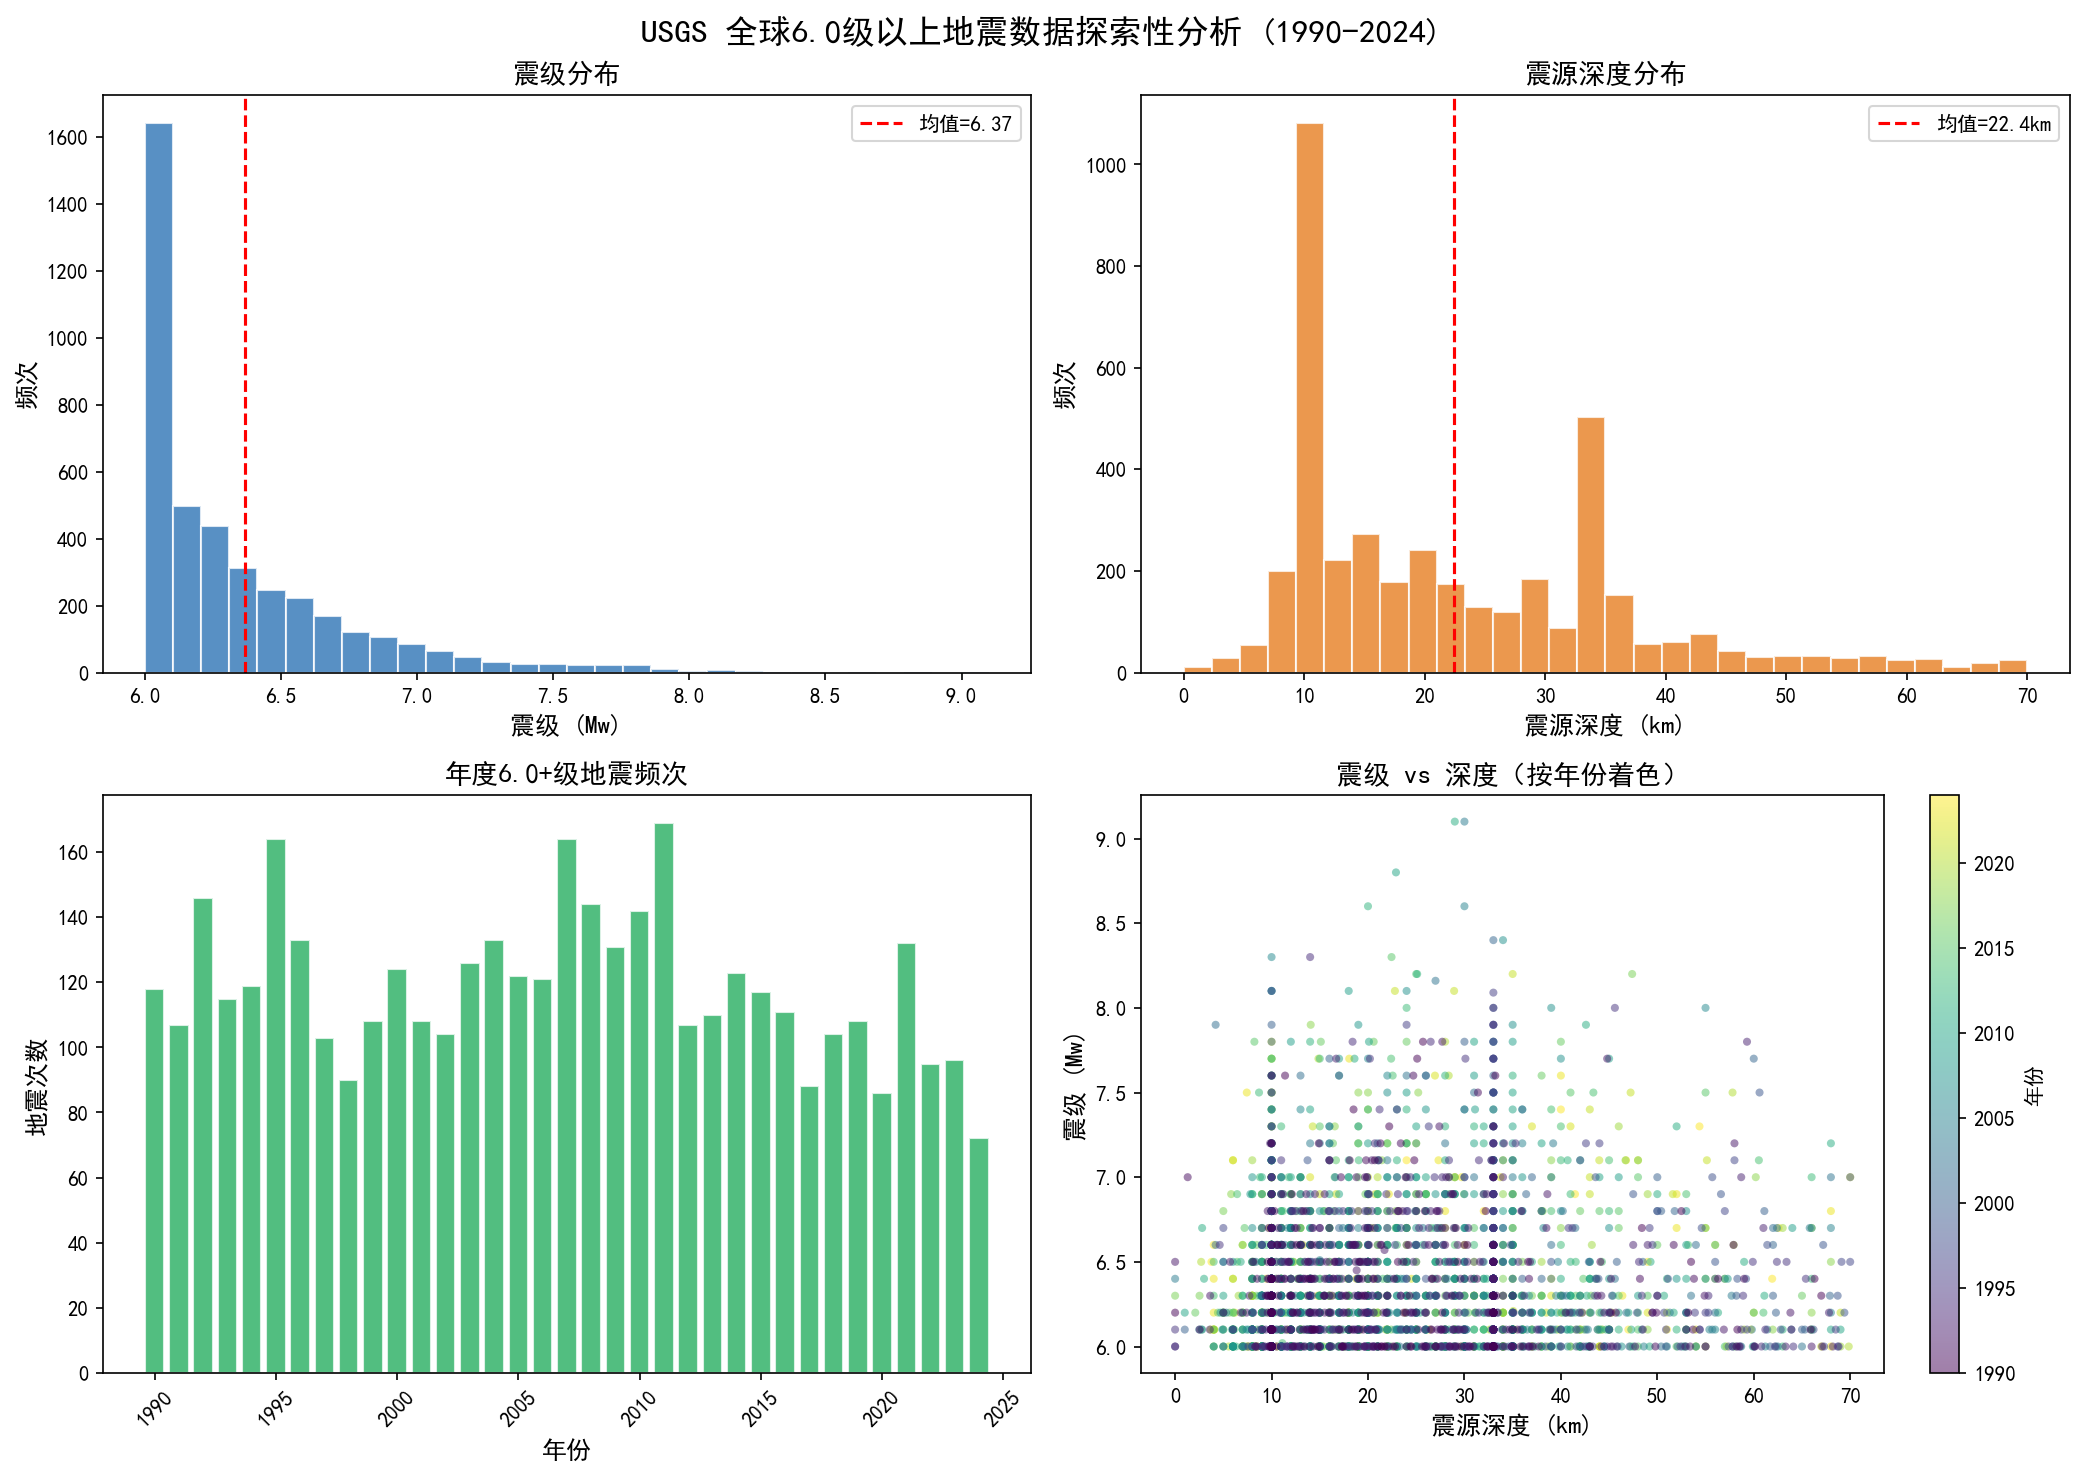
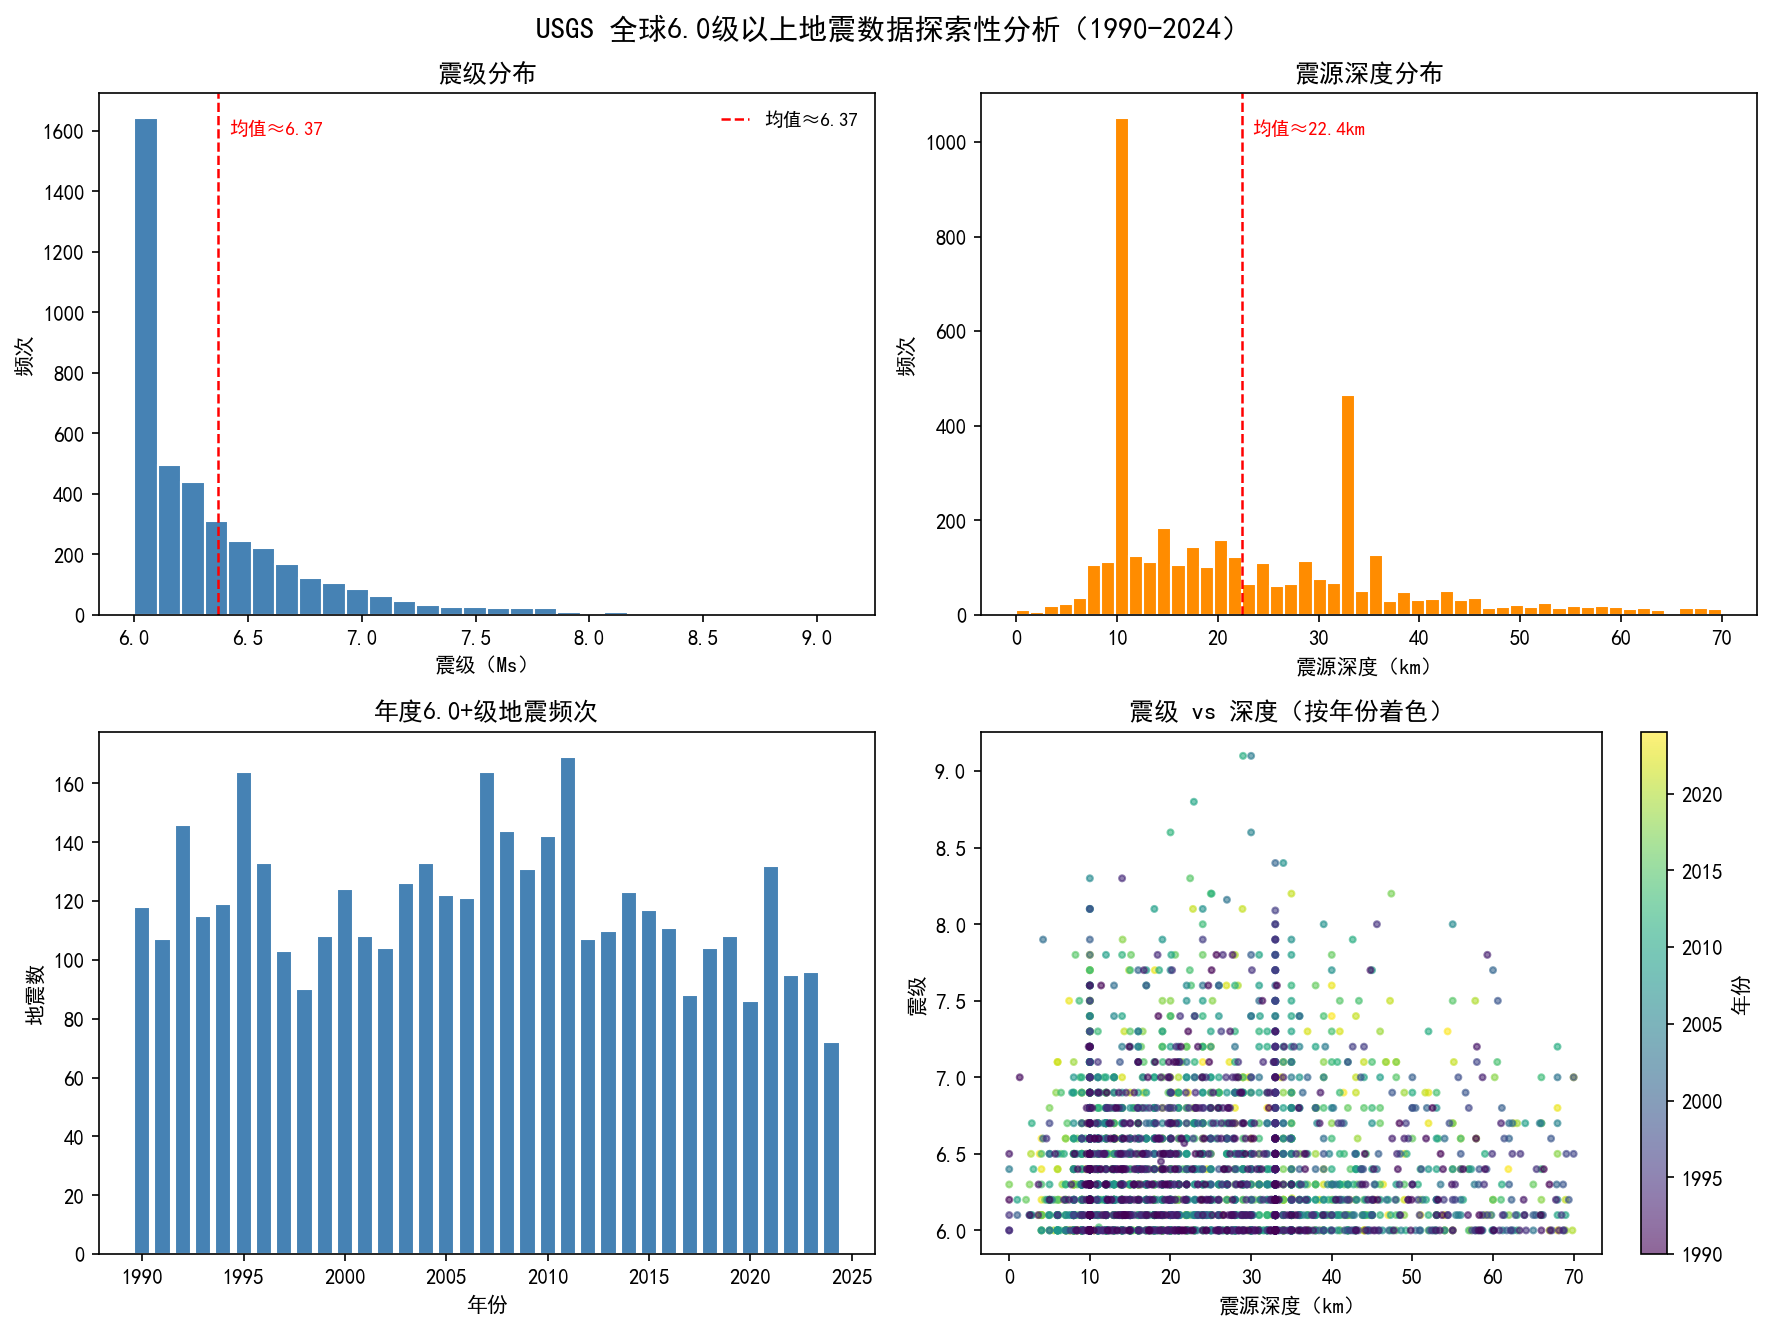
补充第一步数据探索脚本，修正数据统计

diff --git a/code/01_data_exploration.py b/code/01_data_exploration.py
@@ -1,0 +1,227 @@
+"""
+01_data_exploration.py
+余震预测项目 — 第一步：数据探索与清洗
+  1) 清洗 USGS 全球 M6.0+ 地震数据  -> usgs_clean.csv
+  2) 汇总 20 条测试地震序列统计信息   -> test_eq_stats.csv
+  3) 生成 3 张 EDA 图表
+"""
+
+import os
+import numpy as np
+import pandas as pd
+import matplotlib
+import matplotlib.pyplot as plt
+
+matplotlib.rcParams["font.sans-serif"] = ["SimHei", "Microsoft YaHei"]
+matplotlib.rcParams["axes.unicode_minus"] = False
+
+# ── 路径配置 ──────────────────────────────────────────────
+DATA_DIR = r"E:\data_download"
+SEQ_DIR = os.path.join(DATA_DIR, "test_eq_data")
+OUTPUT_DIR = r"E:\earthquake_project\output"
+os.makedirs(OUTPUT_DIR, exist_ok=True)
+
+USGS_RAW_PATH = os.path.join(DATA_DIR, "usgs_query.csv")
+CATALOG_PATH = os.path.join(DATA_DIR, "test_eq_catalog.csv")
+
+
+# ═══════════════════════════════════════════════════════════
+#  第 1 部分：USGS 全球地震数据清洗
+# ═══════════════════════════════════════════════════════════
+def clean_usgs():
+    print("[1/3] 清洗 USGS 全球地震数据 ...")
+    raw = pd.read_csv(USGS_RAW_PATH)
+    print(f"  原始数据: {raw.shape}")
+
+    df = raw.copy()
+
+    # 解析时间, 提取年月
+    df["time"] = pd.to_datetime(df["time"])
+    df["year"] = df["time"].dt.year
+    df["month"] = df["time"].dt.month
+
+    # 选取建模所需列, 按时间降序排列
+    cols = ["time", "latitude", "longitude", "depth",
+            "mag", "magType", "place", "year", "month"]
+    df = df[cols].sort_values("time", ascending=False).reset_index(drop=True)
+
+    out_path = os.path.join(OUTPUT_DIR, "usgs_clean.csv")
+    df.to_csv(out_path, index=False)
+    print(f"  清洗后: {df.shape} -> {out_path}")
+    return df
+
+
+# ═══════════════════════════════════════════════════════════
+#  第 2 部分：测试地震序列统计
+# ═══════════════════════════════════════════════════════════
+def build_test_eq_stats():
+    print("[2/3] 汇总测试地震序列统计 ...")
+    cat = pd.read_csv(CATALOG_PATH)
+
+    rows = []
+    for _, r in cat.iterrows():
+        eq_id = (f"{int(r['Year']):04d}{int(r['Month']):02d}{int(r['Day']):02d}"
+                 f"{int(r['Hour']):02d}{int(r['Minute']):02d}{int(r['Second']):02d}")
+        seq_path = os.path.join(SEQ_DIR, f"{eq_id}_eq.csv")
+        seq = pd.read_csv(seq_path, encoding="utf-8-sig")
+        rows.append({
+            "eq_id": eq_id,
+            "mainshock_mag": r["Mag"],
+            "latitude": r["Lat"],
+            "longitude": r["Lon"],
+            "depth": r["Depth"],
+            "source": r["Source"],
+            "aftershock_count": len(seq),   # 序列中全部记录数
+            "year": int(r["Year"]),
+        })
+
+    stats = pd.DataFrame(rows)
+    out_path = os.path.join(OUTPUT_DIR, "test_eq_stats.csv")
+    stats.to_csv(out_path, index=False)
+    print(f"  {len(stats)} 条地震 -> {out_path}")
+    return stats
+
+
+# ═══════════════════════════════════════════════════════════
+#  第 3 部分：EDA 可视化
+# ═══════════════════════════════════════════════════════════
+
+# ---- 图 1: USGS 数据 4 面板 EDA ----
+def plot_usgs_eda(df):
+    print("[3/3] 绘制 EDA 图表 ...")
+    fig, axes = plt.subplots(2, 2, figsize=(12, 9))
+    fig.suptitle("USGS 全球6.0级以上地震数据探索性分析（1990-2024）",
+                 fontsize=14, fontweight="bold")
+
+    # (1) 震级分布
+    ax = axes[0, 0]
+    ax.hist(df["mag"], bins=30, color="steelblue", edgecolor="white")
+    mean_mag = df["mag"].mean()
+    ax.axvline(mean_mag, color="red", ls="--", lw=1.2)
+    ax.set_title("震级分布")
+    ax.set_xlabel("震级（Ms）")
+    ax.set_ylabel("频次")
+    ax.legend([f"均值≈{mean_mag:.2f}"], loc="upper right",
+              frameon=False, fontsize=9, handlelength=1.5,
+              handler_map={str: matplotlib.legend_handler.HandlerBase()})
+    # 用 text 添加标注更灵活
+    ax.text(mean_mag + 0.05, ax.get_ylim()[1] * 0.92,
+            f"均值≈{mean_mag:.2f}", color="red", fontsize=9)
+
+    # (2) 震源深度分布
+    ax = axes[0, 1]
+    ax.hist(df["depth"], bins=50, color="darkorange", edgecolor="white")
+    mean_dep = df["depth"].mean()
+    ax.axvline(mean_dep, color="red", ls="--", lw=1.2)
+    ax.set_title("震源深度分布")
+    ax.set_xlabel("震源深度（km）")
+    ax.set_ylabel("频次")
+    ax.text(mean_dep + 1, ax.get_ylim()[1] * 0.92,
+            f"均值≈{mean_dep:.1f}km", color="red", fontsize=9)
+
+    # (3) 年度频次
+    ax = axes[1, 0]
+    yearly = df.groupby("year").size()
+    ax.bar(yearly.index, yearly.values, color="steelblue", edgecolor="white")
+    ax.set_title("年度6.0+级地震频次")
+    ax.set_xlabel("年份")
+    ax.set_ylabel("地震数")
+
+    # (4) 震级 vs 深度（按年份着色）
+    ax = axes[1, 1]
+    sc = ax.scatter(df["depth"], df["mag"], c=df["year"],
+                    cmap="viridis", s=8, alpha=0.6)
+    fig.colorbar(sc, ax=ax, label="年份")
+    ax.set_title("震级 vs 深度（按年份着色）")
+    ax.set_xlabel("震源深度（km）")
+    ax.set_ylabel("震级")
+
+    plt.tight_layout()
+    out = os.path.join(OUTPUT_DIR, "01_usgs_eda.png")
+    fig.savefig(out, dpi=150, bbox_inches="tight")
+    plt.close(fig)
+    print(f"  -> {out}")
+
+
+# ---- 图 2: 全球地震分布 ----
+def plot_global_distribution(df):
+    fig, ax = plt.subplots(figsize=(14, 7))
+    sc = ax.scatter(df["longitude"], df["latitude"],
+                    c=df["mag"], cmap="YlOrRd",
+                    s=(df["mag"] - 5) ** 2.5 * 3,
+                    alpha=0.5, edgecolors="none")
+    fig.colorbar(sc, ax=ax, label="震级（Mw）", shrink=0.6)
+    ax.set_title("全球6.0+级地震分布（1990-2024）（颜色和大小表示震级）",
+                 fontsize=13)
+    ax.set_xlabel("经度")
+    ax.set_ylabel("纬度")
+    ax.set_xlim(-180, 180)
+    ax.set_ylim(-90, 90)
+    plt.tight_layout()
+    out = os.path.join(OUTPUT_DIR, "02_global_distribution.png")
+    fig.savefig(out, dpi=150, bbox_inches="tight")
+    plt.close(fig)
+    print(f"  -> {out}")
+
+
+# ---- 图 3: 测试地震序列分析 ----
+def plot_test_earthquakes(stats):
+    fig, axes = plt.subplots(1, 2, figsize=(16, 5))
+
+    # 左: 余震数量柱状图
+    ax = axes[0]
+    x = np.arange(len(stats))
+    ax.bar(x, stats["aftershock_count"], color="steelblue")
+    ax.set_title("20个测试震例的余震数量", fontsize=13)
+    ax.set_xlabel("震例编号")
+    ax.set_ylabel("余震数量")
+    ax.set_xticks(x)
+
+    # 右: 主震震级 vs 余震数量 + 拟合
+    ax = axes[1]
+    M = stats["mainshock_mag"].values
+    N = stats["aftershock_count"].values
+    ax.scatter(M, N, s=60, color="red", zorder=3)
+
+    # 线性拟合: log10(N) = a*M + b
+    logN = np.log10(N.astype(float))
+    coeffs = np.polyfit(M, logN, 1)
+    a, b = coeffs
+    M_fit = np.linspace(M.min() - 0.2, M.max() + 0.2, 100)
+    N_fit = 10 ** (a * M_fit + b)
+    ax.plot(M_fit, N_fit, "b--", lw=1.5,
+            label=f"拟合：log10(N)={a:.2f}*M + {b:.2f}")
+
+    ax.set_title("主震震级 vs 余震数量", fontsize=13)
+    ax.set_xlabel("主震震级")
+    ax.set_ylabel("余震数量")
+    ax.legend(fontsize=10)
+
+    plt.tight_layout()
+    out = os.path.join(OUTPUT_DIR, "03_test_earthquakes.png")
+    fig.savefig(out, dpi=150, bbox_inches="tight")
+    plt.close(fig)
+    print(f"  -> {out}")
+
+
+# ═══════════════════════════════════════════════════════════
+#  主入口
+# ═══════════════════════════════════════════════════════════
+def main():
+    print("=" * 60)
+    print("  余震预测项目 — 数据探索与清洗")
+    print("=" * 60)
+
+    usgs = clean_usgs()
+    stats = build_test_eq_stats()
+
+    plot_usgs_eda(usgs)
+    plot_global_distribution(usgs)
+    plot_test_earthquakes(stats)
+
+    print("\n全部完成！")
+    print("=" * 60)
+
+
+if __name__ == "__main__":
+    main()
